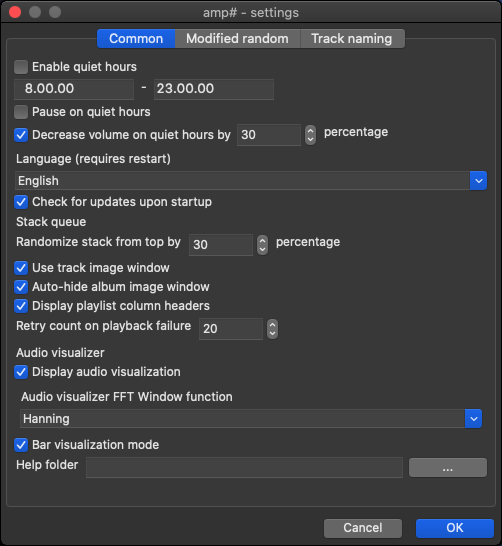
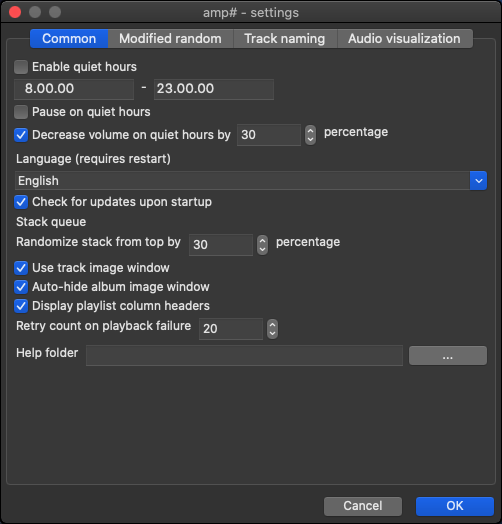
Uptate help & final modifications.

diff --git a/amp.EtoForms/FormMain.Layout.cs b/amp.EtoForms/FormMain.Layout.cs
@@ -218,7 +218,7 @@ partial class FormMain
             AllowColumnReordering = true,
         };
 
-        audioVisualizationControl = CreateAudioVisualization(Globals.Settings.AudioLevelsVertical, Globals.Settings.DisplayAudioLevels);
+        audioVisualizationControl = CreateAudioVisualization(Globals.Settings.AudioLevelsHorizontal, Globals.Settings.DisplayAudioLevels);
 
         audioVisualizationControl.Visible = false;
         spectrumAnalyzer.AudioLevelsChanged += SpectrumAnalyzer_AudioLevelsChanged;
@@ -467,17 +467,49 @@ partial class FormMain
         ColorSliderMarker = Color.Parse(Globals.ColorConfiguration.ColorRatingSliderValueIndicator),
     };
 
-    private Control CreateAudioVisualization(bool vertical, bool bars)
+    private Control CreateAudioVisualization(bool horizontal, bool bars)
     {
         Control control;
 
         if (Globals.Settings.DisplayAudioVisualization)
         {
-            if (vertical)
+            if (horizontal)
             {
                 levelBarLeft = new LevelBar
                 {
-                    MinimumSize = new Size(15, 50),
+                    MinimumSize = new Size(15, 10),
+                    Orientation = Orientation.Horizontal,
+                    BackgroundColor = Color.Parse(Globals.ColorConfiguration.ColorLevelBarLeftBackground),
+                    ColorStart = Color.Parse(Globals.ColorConfiguration.ColorLevelBarLeftStart),
+                    ColorEnd = Color.Parse(Globals.ColorConfiguration.ColorLevelBarLeftEnd),
+                };
+
+                levelBarRight = new LevelBar
+                {
+                    MinimumSize = new Size(15, 10),
+                    Orientation = Orientation.Horizontal,
+                    BackgroundColor = Color.Parse(Globals.ColorConfiguration.ColorLevelBarRightBackground),
+                    ColorStart = Color.Parse(Globals.ColorConfiguration.ColorLevelBarRightStart),
+                    ColorEnd = Color.Parse(Globals.ColorConfiguration.ColorLevelBarRightEnd),
+                };
+
+                control = new TableLayout
+                {
+                    Rows =
+                    {
+                        new TableRow(new TableCell(spectrumAnalyzer, true)) { ScaleHeight = true, },
+                        bars ? new TableRow(new TableCell(levelBarLeft, true)) { ScaleHeight = false, } : new Panel(),
+                        bars ? new TableRow(new TableCell(levelBarRight, true)) { ScaleHeight = false, } : new Panel(),
+                    },
+                    Height = 100,
+                    Padding = new Padding(Globals.DefaultPadding, 0),
+                };
+            }
+            else
+            {
+                levelBarLeft = new LevelBar
+                {
+                    MinimumSize = new Size(20, 10),
                     Orientation = Orientation.Vertical,
                     BackgroundColor = Color.Parse(Globals.ColorConfiguration.ColorLevelBarLeftBackground),
                     ColorStart = Color.Parse(Globals.ColorConfiguration.ColorLevelBarLeftStart),
@@ -486,7 +518,7 @@ partial class FormMain
 
                 levelBarRight = new LevelBar
                 {
-                    MinimumSize = new Size(15, 50),
+                    MinimumSize = new Size(20, 10),
                     Orientation = Orientation.Vertical,
                     BackgroundColor = Color.Parse(Globals.ColorConfiguration.ColorLevelBarRightBackground),
                     ColorStart = Color.Parse(Globals.ColorConfiguration.ColorLevelBarRightStart),
@@ -507,38 +539,6 @@ partial class FormMain
                             },
                             ScaleHeight = true,
                         },
-                    },
-                    Height = 100,
-                    Padding = new Padding(Globals.DefaultPadding, 0),
-                };
-            }
-            else
-            {
-                levelBarLeft = new LevelBar
-                {
-                    MinimumSize = new Size(20, 10),
-                    Orientation = Orientation.Horizontal,
-                    BackgroundColor = Color.Parse(Globals.ColorConfiguration.ColorLevelBarLeftBackground),
-                    ColorStart = Color.Parse(Globals.ColorConfiguration.ColorLevelBarLeftStart),
-                    ColorEnd = Color.Parse(Globals.ColorConfiguration.ColorLevelBarLeftEnd),
-                };
-
-                levelBarRight = new LevelBar
-                {
-                    MinimumSize = new Size(20, 10),
-                    Orientation = Orientation.Horizontal,
-                    BackgroundColor = Color.Parse(Globals.ColorConfiguration.ColorLevelBarRightBackground),
-                    ColorStart = Color.Parse(Globals.ColorConfiguration.ColorLevelBarRightStart),
-                    ColorEnd = Color.Parse(Globals.ColorConfiguration.ColorLevelBarRightEnd),
-                };
-
-                control = new TableLayout
-                {
-                    Rows =
-                    {
-                        new TableRow(new TableCell(spectrumAnalyzer, true)) { ScaleHeight = true, },
-                        bars ? new TableRow(new TableCell(levelBarLeft, true)) { ScaleHeight = false, } : new Panel(),
-                        bars ? new TableRow(new TableCell(levelBarRight, true)) { ScaleHeight = false, } : new Panel(),
                     },
                     Height = 100,
                     Padding = new Padding(Globals.DefaultPadding, 0),

diff --git a/amp.EtoForms/Forms/FormSettings.cs b/amp.EtoForms/Forms/FormSettings.cs
@@ -115,7 +115,7 @@ public class FormSettings : Dialog<bool>
         cbAudioVisualizationBars.Checked = Globals.Settings.AudioVisualizationBars;
         cbAudioVisualizationBars.Checked = Globals.Settings.AudioVisualizationBars;
         cbVisualizeAudioLevels.Checked = Globals.Settings.DisplayAudioLevels;
-        cbLevelsVertical.Checked = Globals.Settings.AudioLevelsVertical;
+        cbLevelsVertical.Checked = Globals.Settings.AudioLevelsHorizontal;
 
         // Album image
         cbShowAlbumImage.Checked = Globals.Settings.ShowAlbumImage;
@@ -178,7 +178,7 @@ public class FormSettings : Dialog<bool>
         Globals.Settings.AudioVisualizationBars = cbAudioVisualizationBars.Checked == true;
         Globals.Settings.AudioVisualizationBars = cbAudioVisualizationBars.Checked == true;
         Globals.Settings.DisplayAudioLevels = cbVisualizeAudioLevels.Checked == true;
-        Globals.Settings.AudioLevelsVertical = cbLevelsVertical.Checked == true;
+        Globals.Settings.AudioLevelsHorizontal = cbLevelsVertical.Checked == true;
 
         // Track title naming.
         Globals.Settings.TrackNameFormula = tbTrackNamingFormula.Text;

diff --git a/amp.EtoForms/Settings/Settings.cs b/amp.EtoForms/Settings/Settings.cs
@@ -250,11 +250,11 @@ public class Settings : ApplicationJsonSettings, IBiasedRandomSettings, IQuietHo
     public bool DisplayAudioLevels { get; set; }
 
     /// <summary>
-    /// Gets or sets a value indicating whether to visualize the audio levels vertically.
+    /// Gets or sets a value indicating whether to visualize the audio levels horizontally.
     /// </summary>
-    /// <value><c>true</c> if to visualize the audio levels vertically; otherwise, <c>false</c>.</value>
-    [Settings(Default = true)]
-    public bool AudioLevelsVertical { get; set; }
+    /// <value><c>true</c> if to visualize the audio levels horizontally; otherwise, <c>false</c>.</value>
+    [Settings(Default = false)]
+    public bool AudioLevelsHorizontal { get; set; }
 
     /// <summary>
     /// Gets or sets the FFT window function.

diff --git a/Help/amp-fi/docs/settings.md b/Help/amp-fi/docs/settings.md
@@ -28,15 +28,6 @@ Tämä asetus joko piilottaa tai näyttää sarakeotsikot pääikkunan kappaleli
 **Uudelleenyritysten määrä toiston epäonnistuessa**
 Arvo, joka ilmaisee kuinka monta kertaa ohjelma yrittää toistaa toista kappaletta virheen sattuessa ennen toiston yrittämisen lopettamista.
 
-**Audion visualisointi**
-*Näytä audiovisualisointi* -asetus määrittää, näytetäänkö audion visualisointi kappalelistan alaosassa kappaletta toistettaessa.
-
-*Audion visualisoinnin FFT-ikkunafunktio*
-Tällä asetuksella FFT ([Nopea Fourier-muunnoksen](https://fi.wikipedia.org/wiki/Fourier-muunnos#FFT)) [ikkunafunktiota](https://en.wikipedia.org/wiki/Window_function) voidaan vaihtaa. Arvo kannattaa pitää kohdassa Hanning, jos et tiedä, mitä termit tarkoittavat. FFT vaikuttaa visualisoidun signaalin muotoon painottamalla eri taajuuskaistoja eri tavalla - näin ainakin allekirjoittanut (erittäin rajoittuneella tietämyksellä) ymmärtää asian.
-
-*Visualisointi pylväsmuodossa*
-Audion visualisointi näytetään pylväinä, jos tämä asetus on päällä. Muussa tapauksessa visualisointi tehdään viivana.
-
 **Aputiedostokansio**
 Koska aputiedostot ovat erillisessä paketissa, tähän syötettään se polku, minne aputiedostot on purettu. Tämä tulisi asettaa purettuun `help_pack`-hakemistoon, jossa on useita alihakemistoja.
 
@@ -62,3 +53,32 @@ Sallitut kaavan osat on selitetty välilehdellä ja arvot voi aina palauttaa ole
 
 ![image](img/settings3.png)
 
+## Äänen visualisointi
+
+**Audion visualisointi**
+*Näytä audiovisualisointi* -asetus määrittää, näytetäänkö äänen visualisointi kappalelistan alaosassa kappaletta toistettaessa.
+
+**Audion visualisoinnin FFT-ikkunafunktio**
+Tällä asetuksella FFT ([Nopea Fourier-muunnoksen](https://fi.wikipedia.org/wiki/Fourier-muunnos#FFT)) [ikkunafunktiota](https://en.wikipedia.org/wiki/Window_function) voidaan vaihtaa. Arvo kannattaa pitää kohdassa Hanning, jos et tiedä, mitä termit tarkoittavat. FFT vaikuttaa visualisoidun signaalin muotoon painottamalla eri taajuuskaistoja eri tavalla - näin ainakin allekirjoittanut (erittäin rajoittuneella tietämyksellä) ymmärtää asian.
+
+**Visualisointi pylväsmuodossa**
+Äänen visualisointi näytetään pylväinä, jos tämä asetus on päällä. Muussa tapauksessa visualisointi tehdään viivana.
+
+**Visualisoi äänen tasot**
+Ilmaisee, visualisoidaanko äänen tasot äänen visualisointialueella.
+
+**Vaaka-suuntainen äänen tason visualisointi**
+Arvo, millä ilmaistaan visualisoidaanko äänen voimakkuus vaaka- vai pystysuunnassa.
+
+*Äänen voimakkuudet pystysuunnassa*
+
+![image](img/audio_visualization1.png)
+
+*Äänenvoimakkuudet vaaka-suunnassa*
+
+![image](img/audio_visualization2.png)
+
+
+*Äänen visualisointi -välilehti*
+
+![image](img/settings4.png)

diff --git a/Help/amp-en/docs/settings.md b/Help/amp-en/docs/settings.md
@@ -27,15 +27,6 @@ This option simply disables or enables the column headers of the main window tra
 **Retry count on playback failure**
 A value of how many times the software tries playback with a different track if the playback fails before stopping to retry.
 
-**Audio visualizer**
-*Display audio visualization* indicates whether to display audio visualization on bottom of the track list during playback.
-
-*Audio visualizer FFT Window function*
-With this option the FFT ([Fast Fourier Transform](https://en.wikipedia.org/wiki/Fast_Fourier_transform)) [windowing function](https://en.wikipedia.org/wiki/Window_function) can be changed. Just keep it to Hanning if you do not know what this means. It affects the form of the visualized audio signal bu assigning weight to the different frequency bands - thats how the author (with extremely limited knowledge) understands the thing.
-
-*Bar visualization mode*
-The audio visualization is rendered in bars if this is checked. Otherwise a line is rendered.
-
 **Help folder**
 As the help files are in a different package this is the location where the package was extracted. This should be set to the location of the extracted `help_pack` folder which contains many sub-folders.
 
@@ -61,3 +52,32 @@ The allowed formula sections are explained in the track naming tab and they can 
 
 ![image](img/settings3.png)
 
+## Audio visualization
+
+**Display Audio visualization**
+*Display audio visualization* indicates whether to display audio visualization on bottom of the track list during playback.
+
+*Audio visualizer FFT Window function*
+With this option the FFT ([Fast Fourier Transform](https://en.wikipedia.org/wiki/Fast_Fourier_transform)) [windowing function](https://en.wikipedia.org/wiki/Window_function) can be changed. Just keep it to Hanning if you do not know what this means. It affects the form of the visualized audio signal bu assigning weight to the different frequency bands - thats how the author (with extremely limited knowledge) understands the thing.
+
+**Bar visualization mode**
+The audio visualization is rendered in bars if this is checked. Otherwise a line is rendered.
+
+**Visualize audio levels**
+A value indicating whether to visualize the audio levels with the audio visualization area.
+
+**Horizontal level visualization**
+A value indicating whether to visualize the audio levels vertical or horizontal.
+
+*The audio levels in vertical*
+
+![image](img/audio_visualization1.png)
+
+*The audio levels in horizontal*
+
+![image](img/audio_visualization2.png)
+
+
+*The audio visualization tab*
+
+![image](img/settings4.png)
